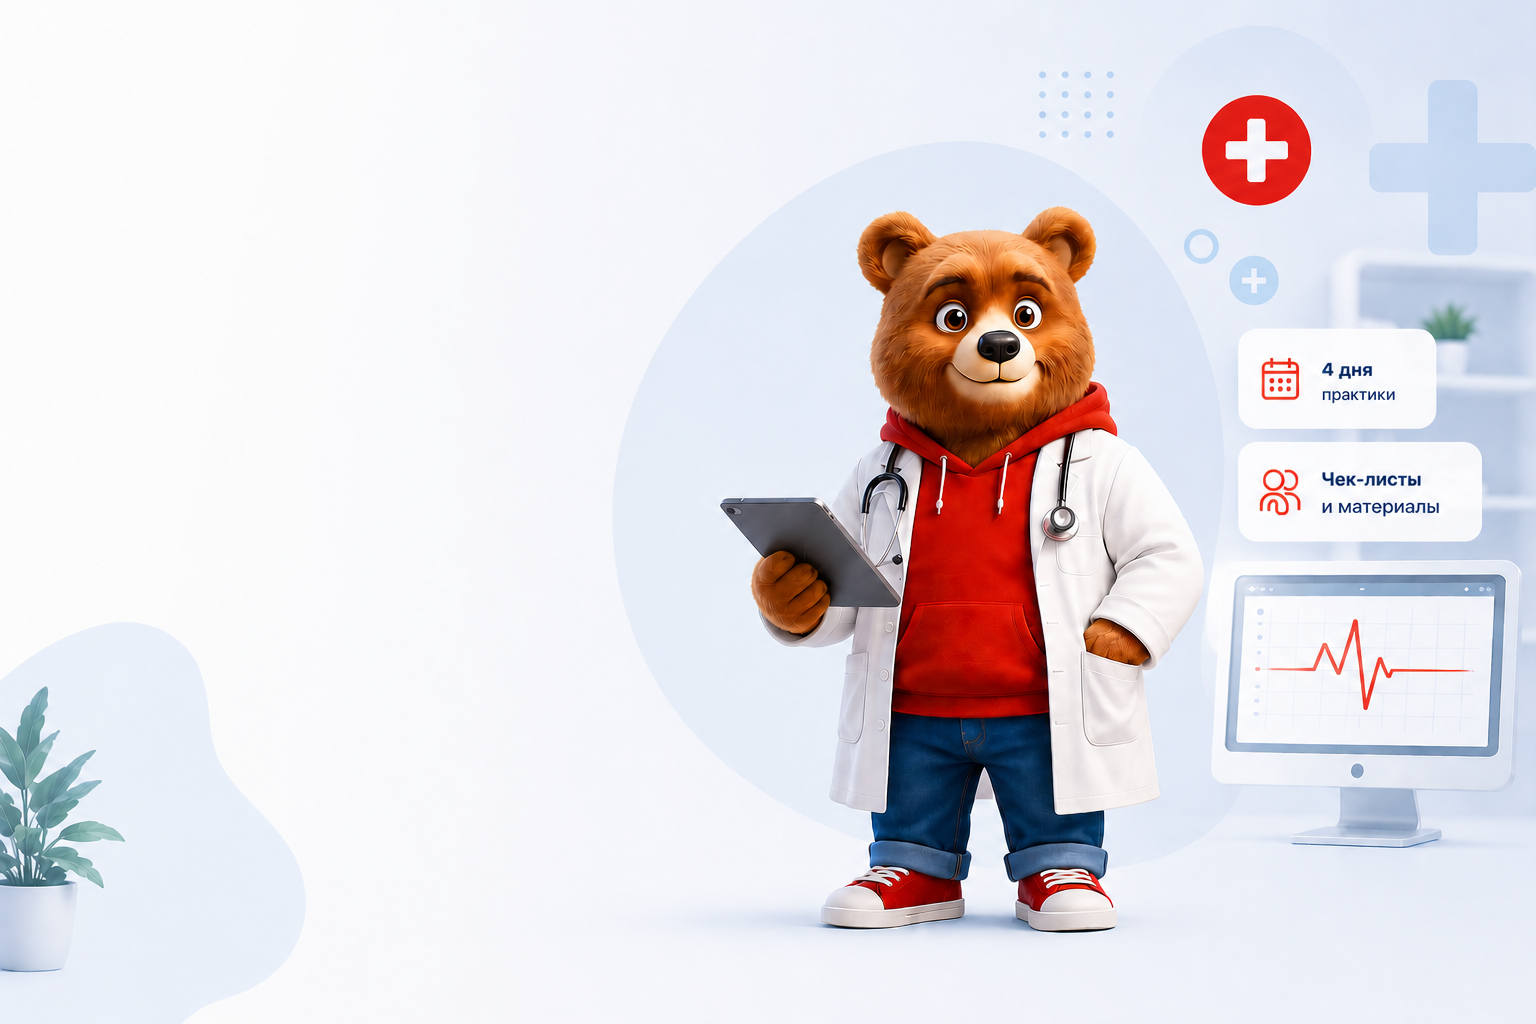
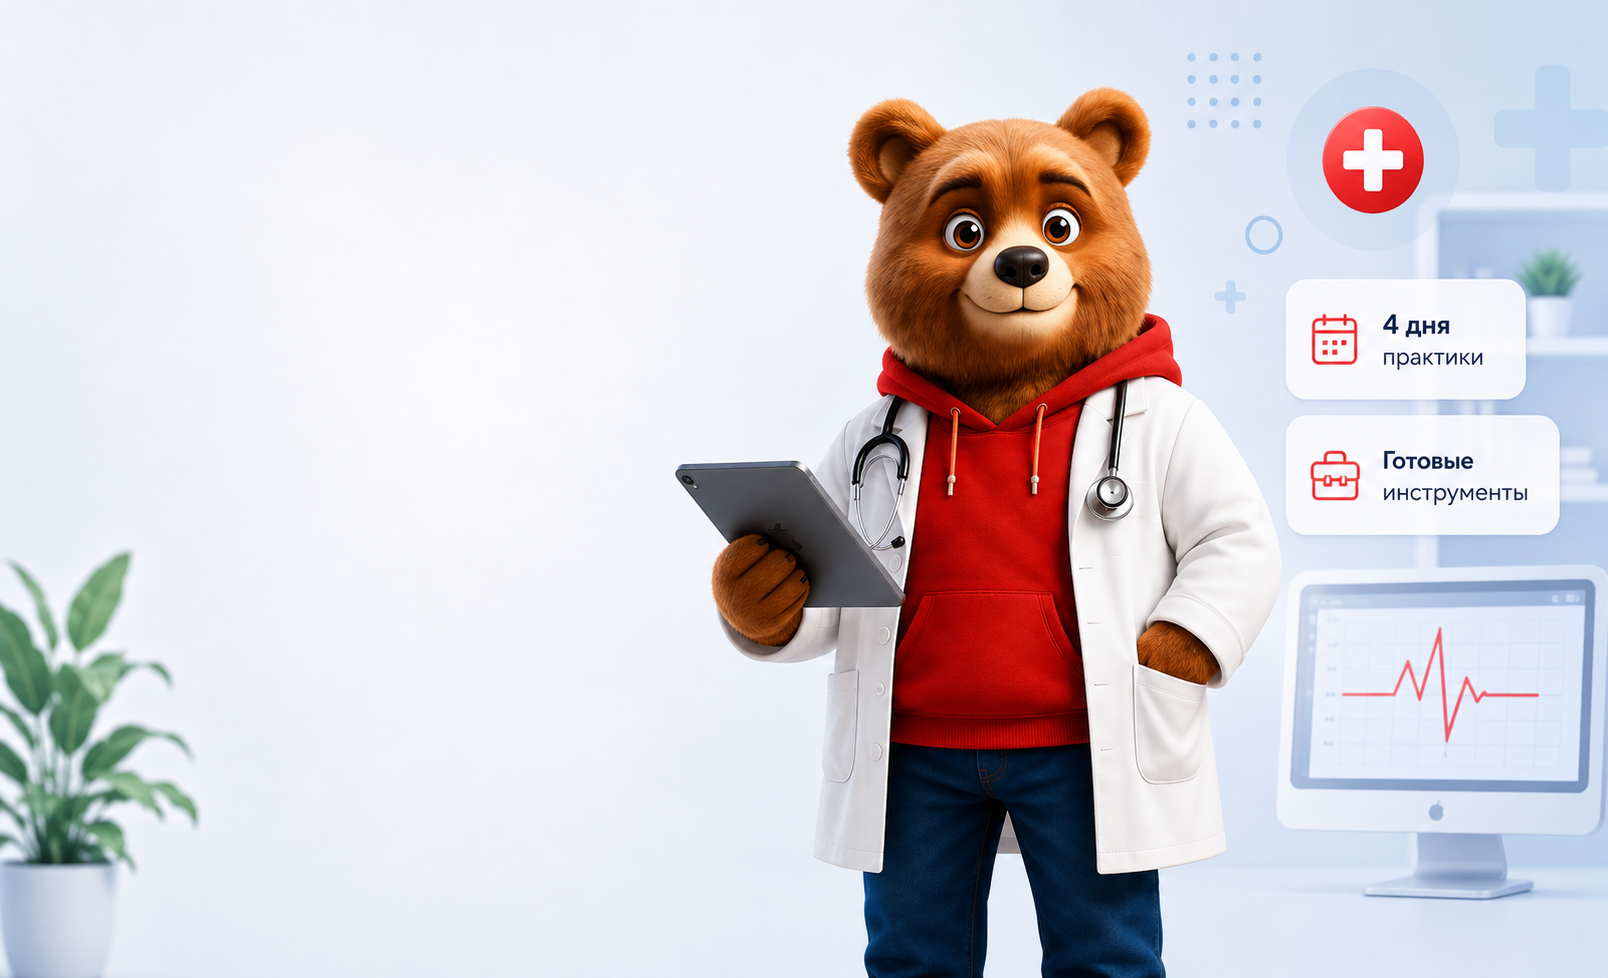
Swap hero to new mid-shot bear scene

Changed region(s): [[0.4062, 0.0613, 1.0, 1.0], [0.0, 0.5521, 0.125, 1.0], [0.9375, 0.0613, 1.0, 0.1534]]

diff --git a/klinika/index.html b/klinika/index.html
@@ -22,7 +22,7 @@
 <main>
 
   <section class="hero">
-    <img class="hero__bg" src="assets/hero-bg.png?v=2" alt="" aria-hidden="true">
+    <img class="hero__bg" src="assets/hero-bg.png?v=3" alt="" aria-hidden="true">
     <div class="container hero__grid">
       <div class="hero__content">
         <p class="hero__eyebrow">Бесплатный 4-дневный марафон</p>

diff --git a/klinika/styles.css b/klinika/styles.css
@@ -165,7 +165,7 @@ a { color: inherit; text-decoration: none; }
 /* HERO — contain: крест сверху и кроссовки снизу не обрезаются */
 .hero {
   position: relative;
-  aspect-ratio: 1536 / 1024;
+  aspect-ratio: 1608 / 978;
   min-height: 560px;
   max-height: min(92vh, 900px);
   padding: 0;
